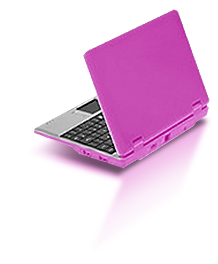
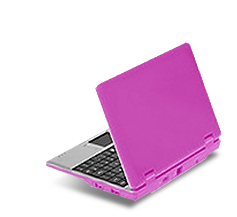
agregado de productos en productos html

diff --git a/productos.html b/productos.html
@@ -18,7 +18,7 @@
 	<link href='http://fonts.googleapis.com/css?family=Oxygen:400,300,700' rel='stylesheet' type='text/css'>
 	<link href='http://fonts.googleapis.com/css?family=Paytone+One' rel='stylesheet' type='text/css'>
 	<link href='http://fonts.googleapis.com/css?family=Quicksand:300,400,700' rel='stylesheet' type='text/css'>
-	
+
 	<link rel="stylesheet" type="text/css" href="css/global.css" />
 
 </head>
@@ -45,60 +45,93 @@
 					<h2>Nuestros<br /><span>productos</span></h2>
 				</div>
 
-				<ul class="product-list">
-					<li>
-						<a href="./detalle-productos.html" title="ver detalle">
-							<h2>MP3 Mix Player</h2>
-							<span class="price">$149<sup>.99</sup></span>
-							<span class="ver-detalles">Ver detalles</span>
-							<img src="./img/productos/im-home-mp3-mix.png" alt="MP3 Mix" width="160" height="264">
-						</a>
-					</li>
-
-					<li>
-						<a href="./detalle-productos.html" title="ver detalle">
-							<h2>Mini Netbook</h2>
-							<span class="price">$949<sup>.99</sup></span>
-							<span class="ver-detalles">Ver detalles</span>
-							<img src="./img/productos/im-home-mini-netbook.png" alt="Producto" width="218" height="264">
-						</a>
-					</li>
-
-					<li>
-						<a href="./detalle-productos.html" title="ver detalle">
-							<h2>MP3 Shuffle</h2>
-							<span class="price">$49<sup>.99</sup></span>
-							<span class="ver-detalles">Ver detalles</span>
-							<img src="./img/productos/im-home-mp3-shuffle.png" alt="Producto" width="218" height="264">
-						</a>
-					</li>
+				<ul class="product-list clearfix">
 
 					<li>
 						<a href="./detalle-productos.html" title="ver detalle">
 							<h2>MP3 Mix Player</h2>
 							<span class="price">$149<sup>.99</sup></span>
 							<span class="ver-detalles">Ver detalles</span>
-							<img src="./img/productos/im-home-mp3-mix.png" alt="MP3 Mix" width="160" height="264">
+							<img src="./img/productos/im-home-mp3-mix.png" alt="MP3 Mix">
 						</a>
 					</li>
 
-					<li>
-						<a href="./detalle-productos.html" title="ver detalle">
-							<h2>Mini Netbook</h2>
-							<span class="price">$949<sup>.99</sup></span>
-							<span class="ver-detalles">Ver detalles</span>
-							<img src="./img/productos/im-home-mini-netbook.png" alt="Producto" width="218" height="264">
-						</a>
-					</li>
 
 					<li>
 						<a href="./detalle-productos.html" title="ver detalle">
 							<h2>MP3 Shuffle</h2>
 							<span class="price">$49<sup>.99</sup></span>
 							<span class="ver-detalles">Ver detalles</span>
-							<img src="./img/productos/im-home-mp3-shuffle.png" alt="Producto" width="218" height="264">
+							<img src="./img/productos/im-home-mp3-shuffle-rosa.png" alt="MP3 Shuffle Rosa">
 						</a>
 					</li>
+
+
+					<li class="last">
+						<a href="./detalle-productos.html" title="ver detalle">
+							<h2>MP3 Shuffle</h2>
+							<span class="price">$79<sup>.99</sup></span>
+							<span class="ver-detalles">Ver detalles</span>
+							<img src="./img/productos/im-home-mp3-shuffle.png" alt="MP3 Shuffle">
+						</a>
+					</li>
+
+					<!-- Segunda fila -->
+					<li>
+						<a href="./detalle-productos.html" title="ver detalle">
+							<h2>MP3 Angry</h2>
+							<span class="price">$49<sup>.99</sup></span>
+							<span class="ver-detalles">Ver detalles</span>
+							<img src="./img/productos/im-home-mp3-angry.png" alt="MP3 Angry">
+						</a>
+					</li>
+
+					<li>
+						<a href="./detalle-productos.html" title="ver detalle">
+							<h2>MP3 Kitty</h2>
+							<span class="price">$44<sup>.99</sup></span>
+							<span class="ver-detalles">Ver detalles</span>
+							<img src="./img/productos/im-home-mp3-kitty.png" alt="MP3 Kitty" >
+						</a>
+					</li>
+
+					<li>
+						<a href="./detalle-productos.html" title="ver detalle">
+							<h2>Mini Netbook 7"</h2>
+							<span class="price">$949<sup>.99</sup></span>
+							<span class="ver-detalles">Ver detalles</span>
+							<img src="./img/productos/im-home-mini-netbook.png" alt="Mini Netbook">
+						</a>
+					</li>
+
+					<!-- Tercer fila -->
+					<li>
+						<a href="./detalle-productos.html" title="ver detalle">
+							<h2>Netbook 10"</h2>
+							<span class="price">$1499<sup>.99</sup></span>
+							<span class="ver-detalles">Ver detalles</span>
+							<img src="./img/productos/im-home-netbook-10.png" alt="Netbook 10" >
+						</a>
+					</li>
+
+					<li>
+						<a href="./detalle-productos.html" title="ver detalle">
+							<h2>Tablet 7"</h2>
+							<span class="price">$749<sup>.99</sup></span>
+							<span class="ver-detalles">Ver detalles</span>
+							<img src="./img/productos/im-home-tablet-7.png" alt="Tablet 7">
+						</a>
+					</li>
+
+					<li>
+						<a href="./detalle-productos.html" title="ver detalle">
+							<h2>Tablet 7" Pro</h2>
+							<span class="price">$899<sup>.99</sup></span>
+							<span class="ver-detalles">Ver detalles</span>
+							<img src="./img/productos/im-home-tablet-7-pro.png" alt="Tablet 7 Pro">
+						</a>
+					</li>
+
 				</ul>
 
 				<div class="condiciones clearfix">

diff --git a/css/global.css b/css/global.css
@@ -167,7 +167,6 @@ header ul{
 
 header li{
 	float: left;
-	margin-right: 8px;
 }
 
 header nav li a{
@@ -233,7 +232,7 @@ header nav li.last a{
 }
 
 ul.product-list{
-	overflow: hidden;
+
 }
 
 .product-list li{
@@ -264,7 +263,7 @@ ul.product-list{
 
 .product-list img{
 	position: absolute;
-	right: 0;
+	right: -30px;
 	top: 0;
 	z-index: 10;
 }
@@ -316,15 +315,15 @@ a.ver-detalles:hover{
 }
 
 body.home a.ir-productos-link{
-	margin-bottom: 50px;
+	margin-bottom: 15px;
 	margin-top: 0;
 }
 
 footer{
 	overflow: hidden;
 	height: 128px;
-	padding: 190px 0 40px 0;
-	background: url("./assets/fd-footer.png") center top no-repeat;
+	padding: 150px 0 40px 0;
+	background: url("./assets/fd-footer.png") center bottom no-repeat;
 	position: relative;
 }
 
